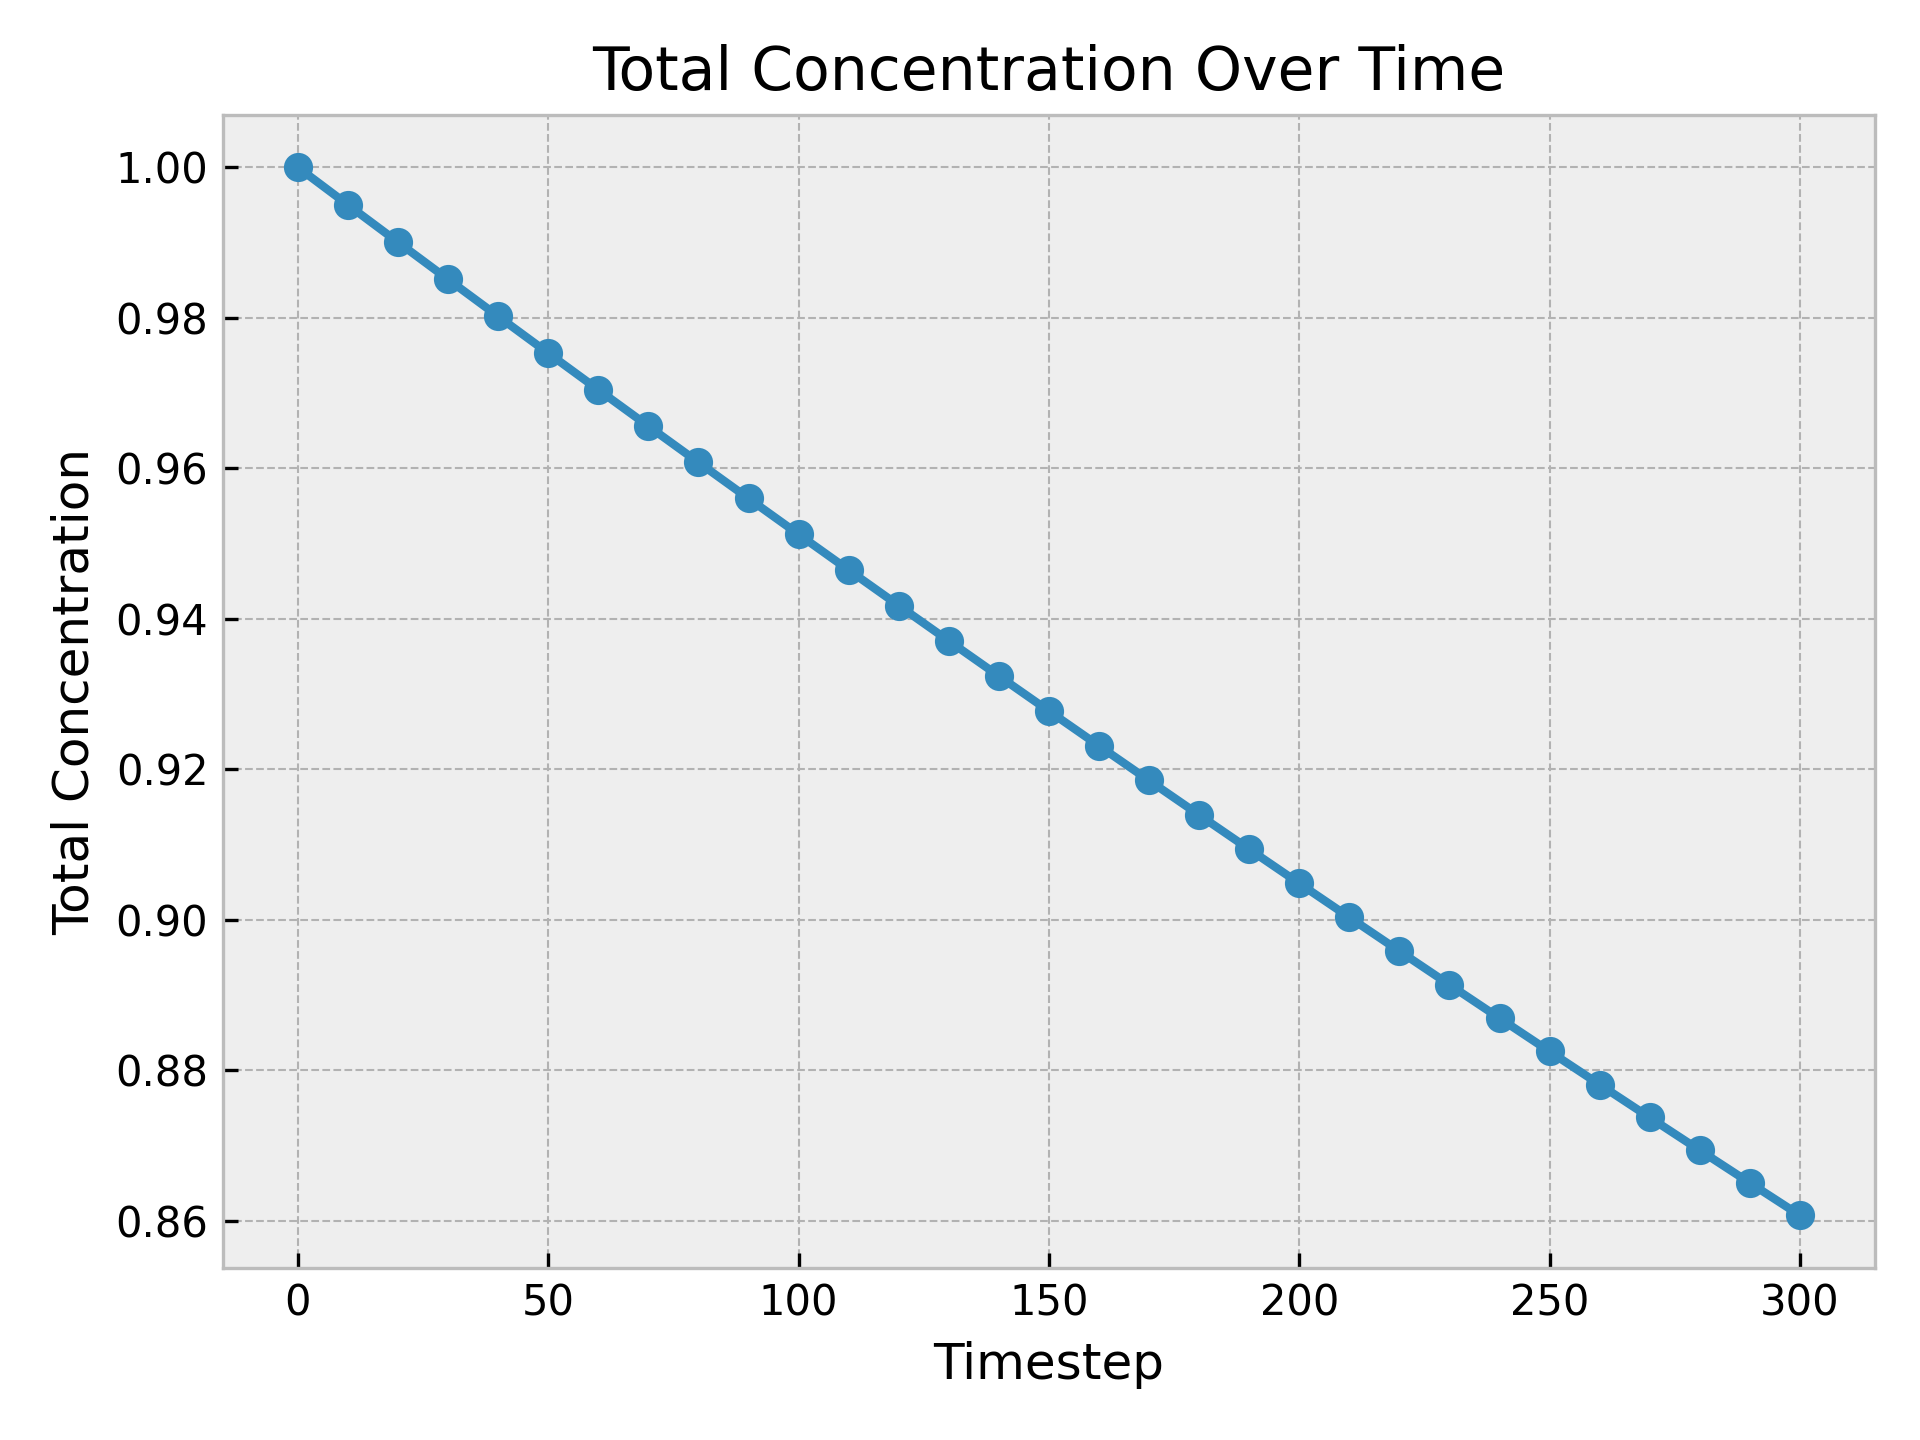
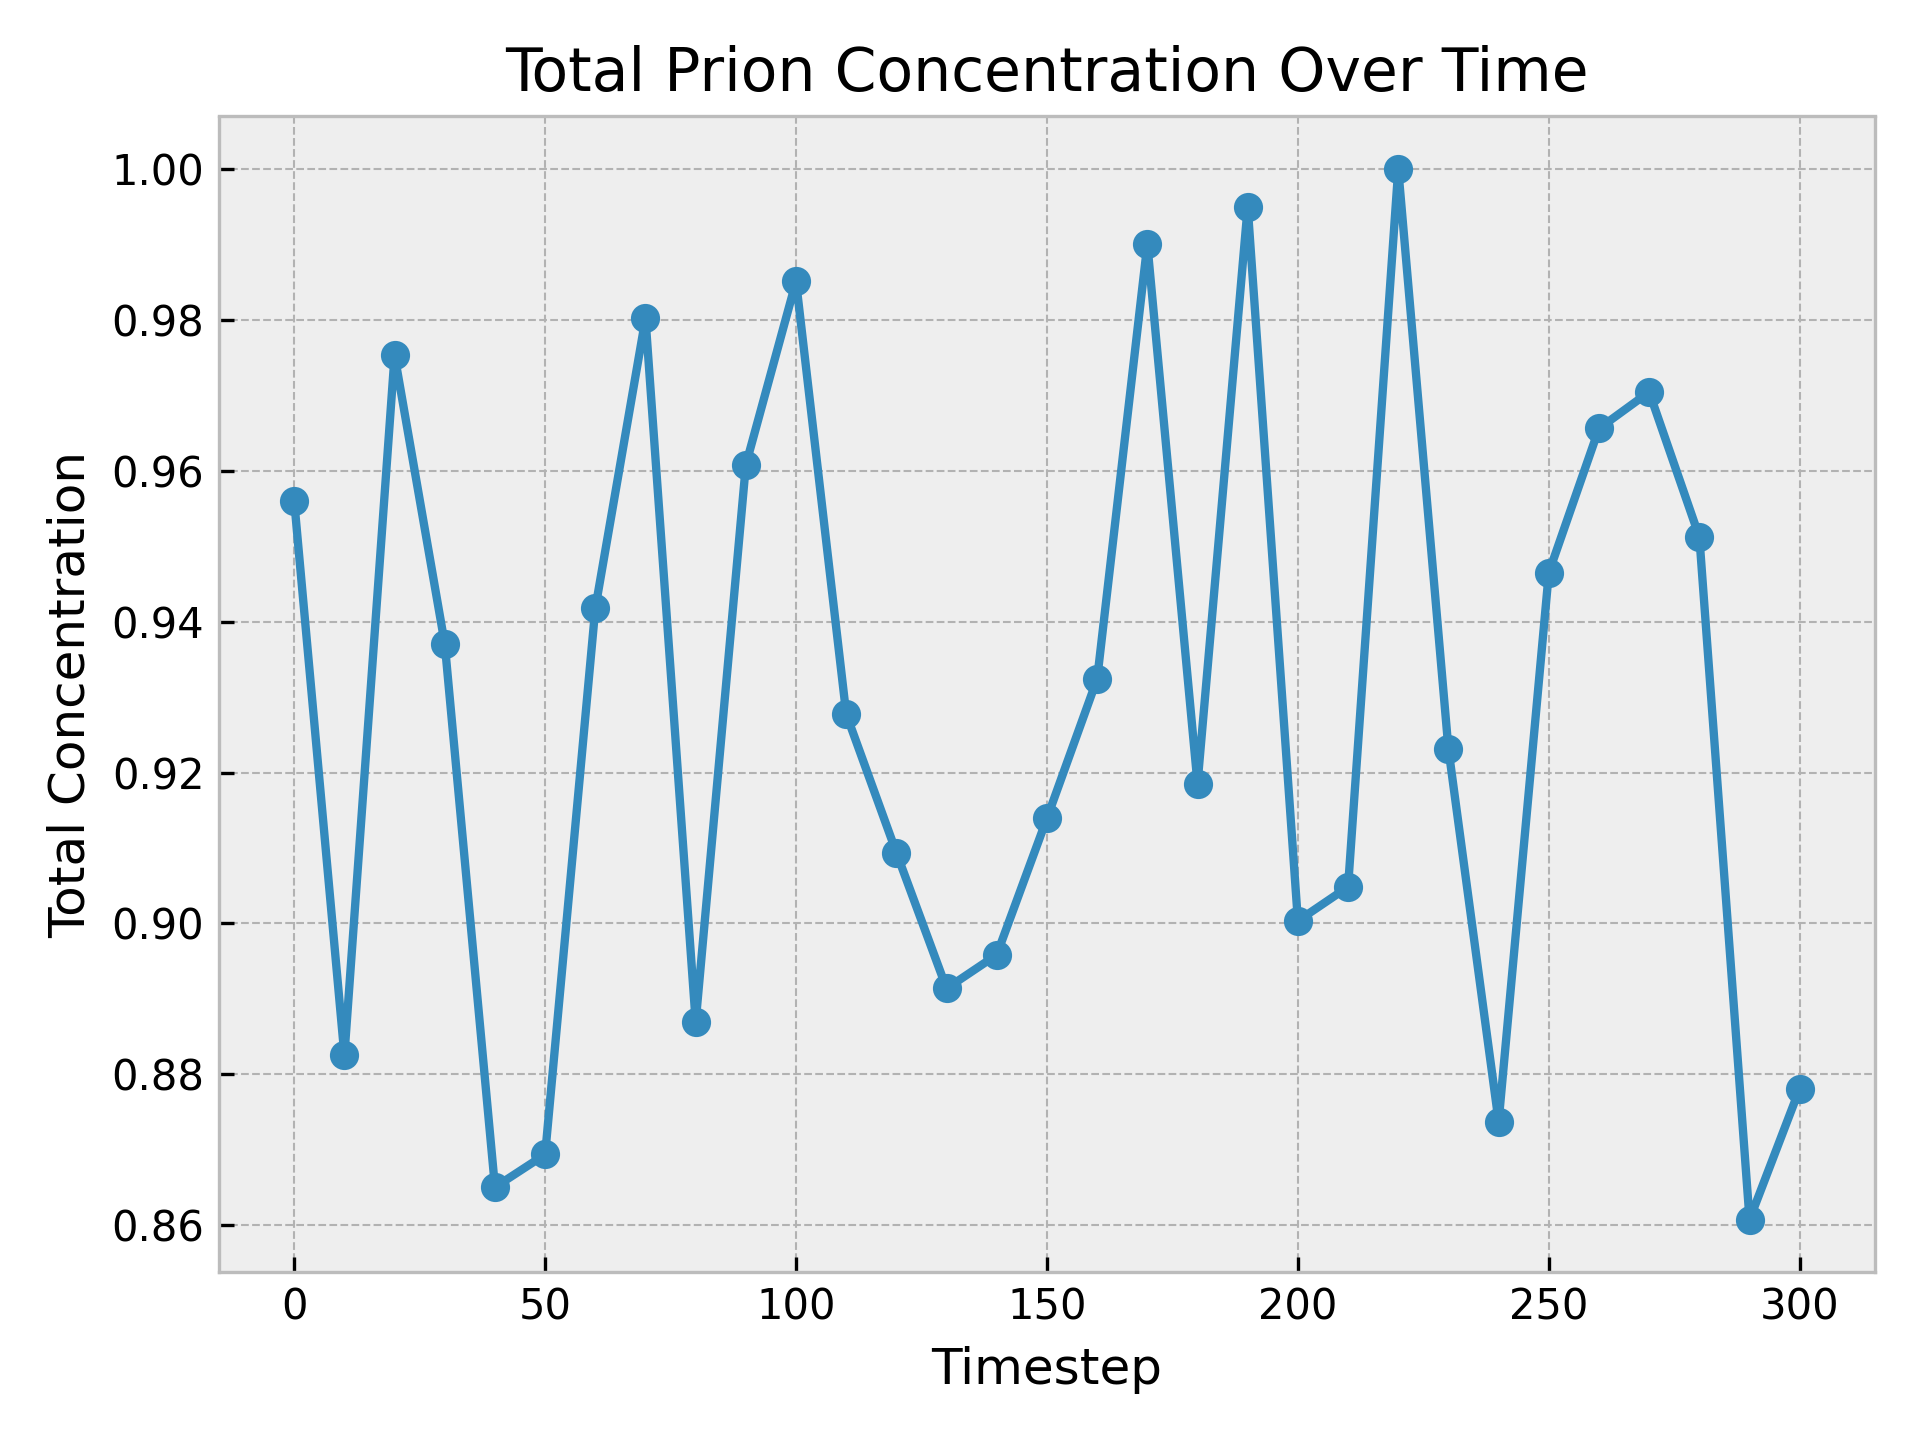
ran simulation and added average plot function

diff --git a/scripts/create_plots.py b/scripts/create_plots.py
@@ -68,7 +68,7 @@ def plot_concentrations(
     plt.close()
 
 
-def plot_average_concentration(grids, grid_name, timepoints) -> None:
+def plot_total_concentration(grids, grid_name, timepoints, prion=False) -> None:
     """
     Plot and save the total concentration of a grid over time.
 
@@ -85,12 +85,44 @@ def plot_average_concentration(grids, grid_name, timepoints) -> None:
     total_concentration = [np.sum(grid) for grid in grids]
 
     plt.plot(timepoints, total_concentration, marker="o")
-    plt.title("Total Concentration Over Time")
+    if not prion:
+        plt.title("Total Protein Concentration Over Time")
+    else:
+        plt.title("Total Prion Concentration Over Time")
     plt.xlabel("Timestep")
     plt.ylabel("Total Concentration")
 
     plt.tight_layout()
     plt.savefig(f"results/total_concentration_{grid_name}.png", dpi=FIG_DPI)
+    plt.close()
+
+
+def plot_average_concentration(grids, grid_name, timepoints, prion=False) -> None:
+    """
+    Plot and save the average concentration of a grid over time.
+
+    Params
+    -------
+    - grids (list of np.ndarray): List of grids at each timepoint.
+    - grid_name (str): Name of the grid (for file naming).
+    - timepoints (list): List of timepoints.
+
+    Returns
+    -------
+    - Plot of average concentration over time.
+    """
+    average_concentration = [np.mean(grid) for grid in grids]
+
+    plt.plot(timepoints, average_concentration, marker="o")
+    if not prion:
+        plt.title("Average Protein Concentration Over Time")
+    else:
+        plt.title("Average Prion Concentration Over Time")
+    plt.xlabel("Timestep")
+    plt.ylabel("Average Concentration")
+
+    plt.tight_layout()
+    plt.savefig(f"results/average_concentration_{grid_name}.png", dpi=FIG_DPI)
     plt.close()
 
 

diff --git a/main.py b/main.py
@@ -16,8 +16,9 @@ from scripts.create_plots import (
     plot_average_concentration,
     plot_concentrations,
     plot_neuron_deaths,
-    plot_prion_cell_death,
     plot_neuron_deaths_over_time,
+    plot_prion_cell_death,
+    plot_total_concentration,
 )
 from scripts.data_manipulation import delete_npy, read_all_grids, read_grids_at_timestep
 from source.cells import create_neuron_dict, neuron_secrete
@@ -131,8 +132,13 @@ def plot_simulation_results(neuron_dict, cell_death_counter) -> None:
 
     # Plot average concentrations over time
     for grid_name in ["protein", "prion"]:
+        if grid_name == "prion":
+            set_title = True
+        else:
+            set_title = False
         grids = read_all_grids(grid_name)
-        plot_average_concentration(grids, grid_name, timepoints)
+        plot_average_concentration(grids, grid_name, timepoints, set_title)
+        plot_total_concentration(grids, grid_name, timepoints, prion=set_title)
 
     # Clean up intermediate files
     delete_npy()
